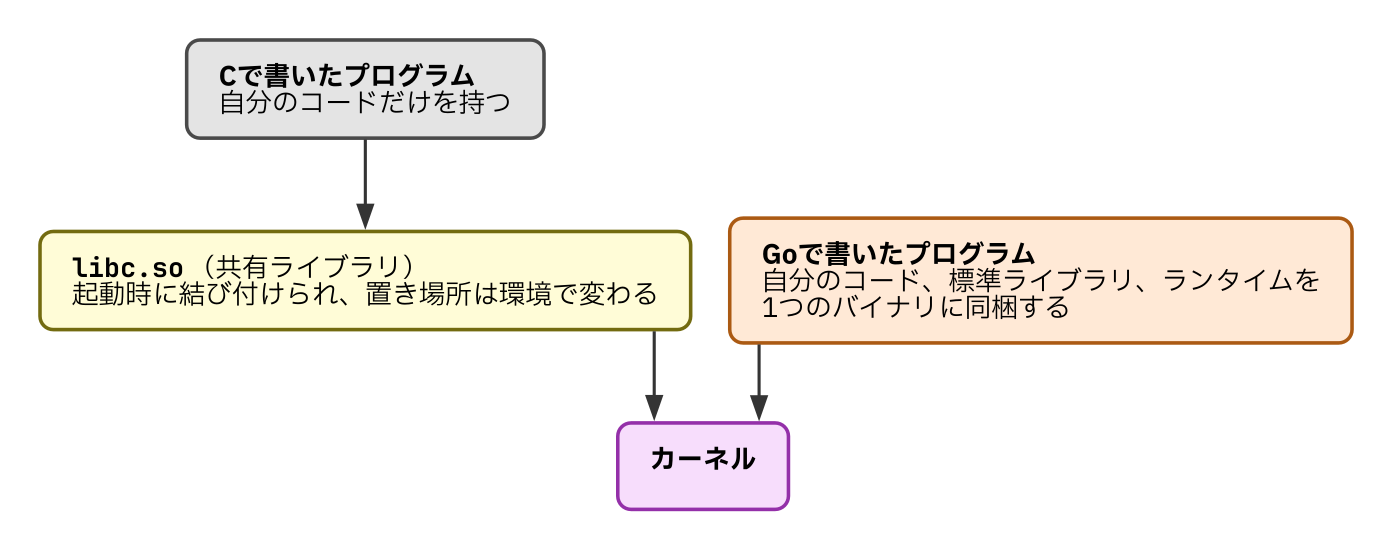
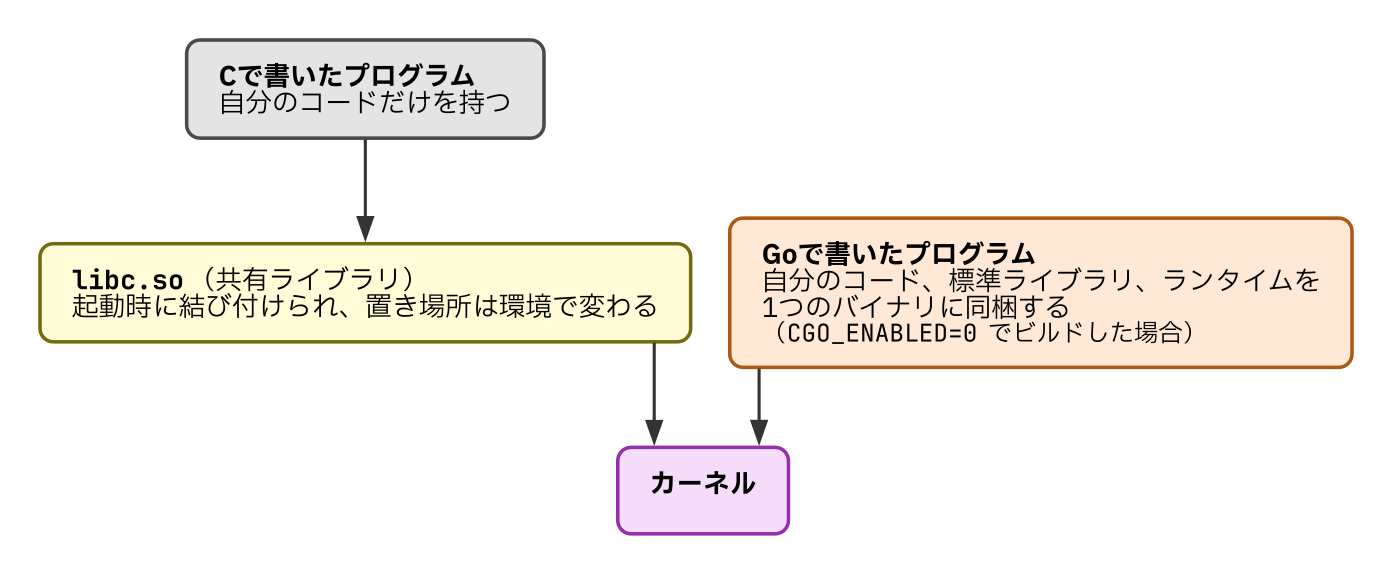
fix(go-ebpf-primer): 修正漏れのキャプション、noinlineの出力、カーネル版、Javaの規約を訂正する
- C03: ヘッダ注入図のキャプションを直列化後・空行前へ
- C04: 静的リンク図のキャプションと図にCGO_ENABLED=0の条件を明記
- C06: deferreturnを通る条件を自身のdeferがrecoverする場合に限定。掲載の
  Lookupのdeferはmu.Unlockでrecoverしないことを補足
- T01: noinlineを外す手順を追記し、実測どおりの-m出力に差し替え
- T02: FIONREADのログの6.19+はOBI表記で、upstreamは6.19.4からと脚注
- T03: 親子関係の循環は無限ループではなくattempts<6の枠を使い切る
- T04: Javaのプラットフォームスレッドも呼び出し規約はCと異なるため例から外す
- L01: 日本語版があるOBI文書・otelc紹介記事6箇所を日本語版へ

diff --git a/books/go-ebpf-primer/37-handson.md b/books/go-ebpf-primer/37-handson.md
@@ -174,11 +174,11 @@ services:
       - "3000:3000"
 ```
 
-`privileged: true` と `pid: host` の2つが、この構成では要ります。前者はeBPFプログラムのロードに必要な権限をまとめて与えるためで、後者はホストのプロセスを見えるようにする指定です。`privileged` は手軽さのための選択で、本番では `CAP_BPF` や `CAP_PERFMON` など必要な権限だけを個別に付ける構成にできます。詳しくは[権限のドキュメント](https://opentelemetry.io/docs/zero-code/obi/security/)にあります。
+`privileged: true` と `pid: host` の2つが、この構成では要ります。前者はeBPFプログラムのロードに必要な権限をまとめて与えるためで、後者はホストのプロセスを見えるようにする指定です。`privileged` は手軽さのための選択で、本番では `CAP_BPF` や `CAP_PERFMON` など必要な権限だけを個別に付ける構成にできます。詳しくは[権限のドキュメント](https://opentelemetry.io/ja/docs/zero-code/obi/security/)にあります。
 
 マウントしている2つのパスにも役割があります。`/sys/kernel/security` はlockdownの状態を読むため、`/sys/fs/bpf` はeBPFマップをピン留めするためです。`/sys/fs/bpf` を渡さないと警告が出て、ピン留めしたマップを前提とする機能が無効になります。
 
-OBI側の環境変数は7つあり、うち2つはOpenTelemetry標準の変数をそのまま使っています。網羅的な一覧は[設定リファレンス](https://opentelemetry.io/docs/zero-code/obi/configure/options/)にあります。
+OBI側の環境変数は7つあり、うち2つはOpenTelemetry標準の変数をそのまま使っています。網羅的な一覧は[設定リファレンス](https://opentelemetry.io/ja/docs/zero-code/obi/configure/options/)にあります。
 
 | 環境変数 | 意味 |
 |---|---|
@@ -342,7 +342,13 @@ level=WARN msg="kernel misreports ioctl(FIONREAD) for sockets in a sockhash (ker
 level=ERROR msg="context propagation is disabled: the BPF compensation is ineffective (attach failed or blocked?). This kernel misreports ioctl(FIONREAD) for sockets in a sockhash (kernel commit 929e30f93125), or could not be verified to report it correctly, so keeping propagation enabled would risk making applications sizing reads via FIONREAD stall or truncate transfers" component=tpinjector
 ```
 
-これは13章で扱う2つの伝搬経路のうち、`sk_msg` を使う経路2が無効になったという意味です。アプリのバッファに `bpf_probe_write_user` で書き込む経路1は動き続けるので、`backend` の側で `Traceparent` が読めているなら伝搬自体は成立しています。実際、本章の実行結果はこのログが出ている環境で取ったもので、`backend` は `Traceparent` を受け取れています。ただし経路1が常に書き込めるとはかぎりません。バッファに空きがない場合や必要なオフセットが解決できない場合には書き込みを見送るので、そのときは経路2が無効であることがそのまま伝搬の失敗になります。
+これは13章で扱う2つの伝搬経路のうち、`sk_msg` を使う経路2が無効になったという意味です。
+
+ログにある `6.19+` はOBIの表記です。実際のupstreamの安定版系列では、このコミットは6.19.0ではなく **6.19.4** から入りました[^fionread-backport]。ディストリビューションが独自にバックポートすることもあるので、自分の環境でどうなるかは、この版の比較ではなくOBIが起動時に出すこの検査結果で判断してください。
+
+[^fionread-backport]: 6.19.1から6.19.3の変更履歴には当該コミットがなく、6.19.4の変更履歴に `[ Upstream commit 929e30f9312514902133c45e51c79088421ab084 ]` として記録されています（[ChangeLog-6.19.4](https://cdn.kernel.org/pub/linux/kernel/v6.x/ChangeLog-6.19.4)）。
+
+アプリのバッファに `bpf_probe_write_user` で書き込む経路1は動き続けるので、`backend` の側で `Traceparent` が読めているなら伝搬自体は成立しています。実際、本章の実行結果はこのログが出ている環境で取ったもので、`backend` は `Traceparent` を受け取れています。ただし経路1が常に書き込めるとはかぎりません。バッファに空きがない場合や必要なオフセットが解決できない場合には書き込みを見送るので、そのときは経路2が無効であることがそのまま伝搬の失敗になります。
 
 lockdownが `[integrity]` の環境では、逆に経路1のほうが使えません。経路2が動く環境ならそちらが引き継ぎますが、両方とも無効なら `Traceparent` は空のまま。同じOBIが両側を見ている範囲でしかトレースはつながりません。
 

diff --git a/books/go-ebpf-primer/40-hurdle1_uretprobe.md b/books/go-ebpf-primer/40-hurdle1_uretprobe.md
@@ -183,7 +183,9 @@ $ go tool objdump -s 'main\.Lookup$' s2_ret
 
 `0x49e290` は通常どおり関数を抜ける経路、`0x49e2a0` は `runtime.deferreturn` を通ってから抜ける経路です。どちらも `s2_ret.go:17`、つまりソース上の同じ `return` に対応しています。
 
-2つ目の経路がいつ選ばれるのかも押さえておきます。`defer` に登録した処理は、通常ならコンパイラが関数の末尾に展開してそのまま実行します。パニックが起きて `recover` で復帰したときは、`runtime.deferreturn` を通って残りの処理を片付けてから関数を抜けます。ループの中の `defer` のようにコンパイラが展開できない場合も、同じ経路を通ります。したがって `0x49e290` にしかuprobeを置かないと、パニックが起きた呼び出しだけ出口を取れません。所要時間の記録が落ちるのはエラー時にかぎられ、平常時のテストでは気付けない抜けになります。
+2つ目の経路がいつ選ばれるのかも押さえておきます。`defer` に登録した処理は、通常ならコンパイラが関数の末尾に展開してそのまま実行します。`runtime.deferreturn` を通るのは、その関数自身の `defer` が `recover` でパニックから復帰し、この関数の復帰経路に戻ってくる場合です。ループの中の `defer` のようにコンパイラが展開できない場合も、通常の終了で同じ経路を通ります。したがって `0x49e290` にしかuprobeを置かないと、出口を取り逃す呼び出しが出ます。
+
+ただし、いま見ている `Lookup` の `defer` は `mu.Unlock()` で、`recover` はしません。この関数の中でパニックが起きれば、2つ目の `RET` にも戻らずに巻き戻りが外へ抜けていきます。先に見たとおり、外側で `recover` されても、飛ばされた `Lookup` はどちらの `RET` も通りません。つまり `RET` が2つあることと、パニック時にその2つ目へ来ることは別の話です。どの経路で抜けるかを呼び出しごとに見分けられないからこそ、OBIは全部の `RET` にuprobeを置きます。
 
 ついでに、この出力には後の節で扱う要素が2つ写り込んでいます。1行目の `CMPQ SP, 0x10(R14)` は、いま説明したスタック伸長の判定です。`R14` の指す構造体の16バイト目に入っている値とスタックポインタを比べ、足りなければ最終行の `runtime.morestack_noctxt` へ飛びます。その `R14` が何なのかは、難所2で扱います。
 

diff --git a/books/go-ebpf-primer/00-introduction.md b/books/go-ebpf-primer/00-introduction.md
@@ -14,7 +14,7 @@ fatal error: unknown caller pc
 
 観測していただけのはずが、観測対象を止めてしまう。他の言語では通用する定石が、Goでは最初の一歩から通用しません。
 
-本書では、この種のつまずきを4つの**難所**として扱います。難所の正体は、Goを高速かつ書きやすい言語にしている設計そのものです。一般的なeBPF計装の定石は、スタックがOSに管理されて動かないこと、呼び出し規約がプラットフォームの標準に従うことを前提にしています。Cのスレッドや、Javaのプラットフォームスレッドはこの前提を満たします。一方Goは、goroutineのスタックを実行中に動かし、独自の呼び出し規約を持ち、スケジューリングもメモリ管理もランタイムが自前で抱えています。
+本書では、この種のつまずきを4つの**難所**として扱います。難所の正体は、Goを高速かつ書きやすい言語にしている設計そのものです。一般的なeBPF計装の定石は、スタックがOSに管理されて動かないこと、呼び出し規約がプラットフォームの標準に従うことを前提にしています。Cで書かれたプログラムはこの2つを満たします。一方Goは、goroutineのスタックを実行中に動かし、独自の呼び出し規約を持ち、スケジューリングもメモリ管理もランタイムが自前で抱えています。
 
 題材にするのは、[Grafana Beyla](https://grafana.com/oss/beyla-ebpf/)がOpenTelemetryプロジェクトに寄贈されて生まれた[**OpenTelemetry eBPF Instrumentation**](https://opentelemetry.io/ja/docs/zero-code/obi/)（OBI）です。OBIが `net/http` やgRPCといったライブラリの関数まで踏み込んで計装するのは、Goに対してだけです（他の言語でもランタイム内部の関数にはフックを置きますが、その上で動くライブラリには届きません。この違いは8章で見ます）。4つの難所には、手元で実行して確かめられるコードを用意しました。そのうえで、同じことをOBIが実際にどう書いているかを見ます。
 

diff --git a/books/go-ebpf-primer/20-function_call.md b/books/go-ebpf-primer/20-function_call.md
@@ -110,13 +110,16 @@ $ go tool objdump -s 'main\.double$' demo
 
 ここまでの話には、暗黙の前提がありました。関数の呼び出しが、機械語の上でも `CALL` として残っていることです。この前提は、常には成り立ちません。
 
-コンパイラは、小さな関数の呼び出しを、関数の中身をその場に展開する形に置き換えることがあります。これを**インライン展開**と呼びます。`CALL` と `RET` のひと往復と引数の受け渡しが丸ごと消えるので、実行は速くなります。コンパイラの判定は `-gcflags=-m` で見られます。
+コンパイラは、小さな関数の呼び出しを、関数の中身をその場に展開する形に置き換えることがあります。これを**インライン展開**と呼びます。`CALL` と `RET` のひと往復と引数の受け渡しが丸ごと消えるので、実行は速くなります。コンパイラの判定は `-gcflags=-m` で見られます。4章の `main.go` には展開を禁じる `//go:noinline` が付いているので、その行を消してから実行します。
 
 ```
 $ go build -gcflags=-m main.go
-./main.go:6:6: can inline double
-./main.go:11:20: inlining call to double
+./main.go:5:6: can inline double
+./main.go:10:20: inlining call to double
+./main.go:10:13: inlining call to fmt.Println
 ```
+
+`double` が展開の候補として選ばれ（`can inline`）、`main` の中の呼び出しが実際に展開された（`inlining call to`）ことが読めます。`//go:noinline` を付けたまま実行すると、この2行は出ません。
 
 `//go:noinline` は、この展開を禁止して呼び出しを `CALL` として残させる指示です。本書のサンプルコードが繰り返しこれを付けているのは、展開されてしまうと観察対象の呼び出しそのものが消えてしまうからです。通常のアプリケーションで書く必要はありません。
 

diff --git a/books/go-ebpf-primer/99-glossary_references.md b/books/go-ebpf-primer/99-glossary_references.md
@@ -93,8 +93,8 @@ title: "付録：用語集と参考リンク"
 ### OBI
 
 - OpenTelemetry eBPF Instrumentation（OBI）: <https://github.com/open-telemetry/opentelemetry-ebpf-instrumentation>
-- OBI 公式ドキュメント: <https://opentelemetry.io/docs/zero-code/obi/>
-- OBI 分散トレースのドキュメント: <https://opentelemetry.io/docs/zero-code/obi/distributed-traces/>
+- OBI 公式ドキュメント: <https://opentelemetry.io/ja/docs/zero-code/obi/>
+- OBI 分散トレースのドキュメント: <https://opentelemetry.io/ja/docs/zero-code/obi/distributed-traces/>
 - サポート状況の一覧（`SUPPORT_MATRIX.md`）: <https://github.com/open-telemetry/opentelemetry-ebpf-instrumentation/blob/main/SUPPORT_MATRIX.md>
 - コンテキスト伝搬の設計メモ（`devdocs/context-propagation.md`）: <https://github.com/open-telemetry/opentelemetry-ebpf-instrumentation/blob/main/devdocs/context-propagation.md>
 
@@ -122,7 +122,7 @@ title: "付録：用語集と参考リンク"
 - Go 1.17 Release Notes（レジスタベース呼び出し規約）: <https://go.dev/doc/go1.17>
 - Go internal ABI 仕様: <https://github.com/golang/go/blob/master/src/cmd/compile/abi-internal.md>
 - open-telemetry/opentelemetry-go-compile-instrumentation（Compile-Time Instrumentation SIG、`otelc`）: <https://github.com/open-telemetry/opentelemetry-go-compile-instrumentation>
-- Announcing v1 of OpenTelemetry Go Compile-Time Instrumentation: <https://opentelemetry.io/blog/2026/go-compile-time-instrumentation-v1/>
+- OpenTelemetry Goのコンパイル時の計装v1の発表: <https://opentelemetry.io/ja/blog/2026/go-compile-time-instrumentation-v1/>
 
 ### eBPF
 

diff --git a/books/go-ebpf-primer/15-source_to_binary.md b/books/go-ebpf-primer/15-source_to_binary.md
@@ -77,7 +77,7 @@ $ go tool nm demo | grep 'main\.double'
 Goのリンカは、cgoを使わないかぎり静的リンクを選びます。ただしLinuxでCのツールチェーンが入った環境では、`net` や `os/user` が既定でcgoを使う名前解決の実装を選ぶため、`net/http` を使うプログラムは動的リンクになります。`CGO_ENABLED=0` を付ければ純Goの実装に切り替わり、共有ライブラリへの依存はなくなります。どちらであっても計装する側に影響する性質は変わりません。それが何かは6章で見ます。
 
 ![静的リンクされたGoバイナリと動的リンク](/images/20260911-static-link.png)
-*図3: 矢印は依存の向きを表す。Cのプロセスは実行時に共有ライブラリへの依存を解決するが、Goのバイナリはその段を持たない。*
+*図3: 矢印は依存の向きを表す。Cのプロセスは実行時に共有ライブラリへの依存を解決するが、`CGO_ENABLED=0` でビルドしたGoのバイナリはその段を持たない。*
 
 ## ELFのセクション
 
